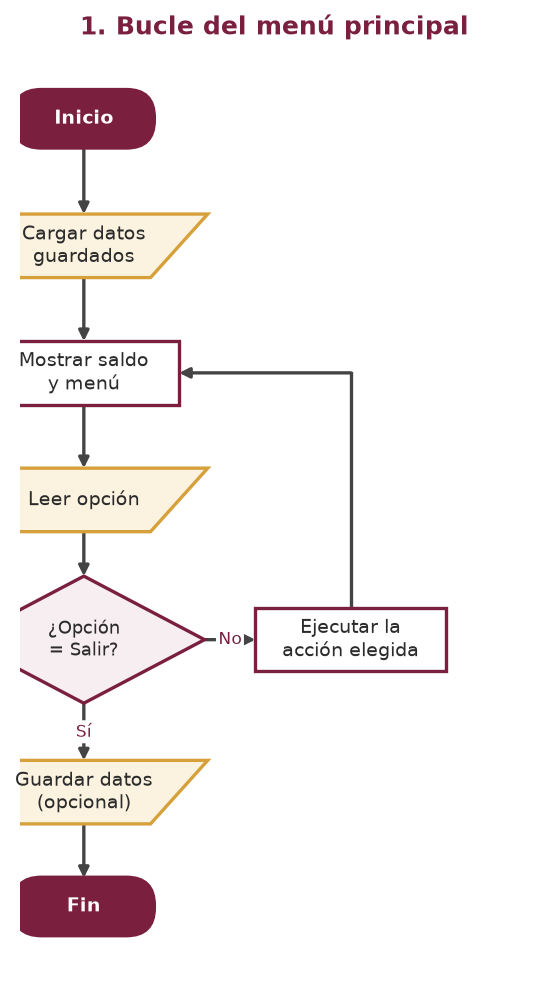
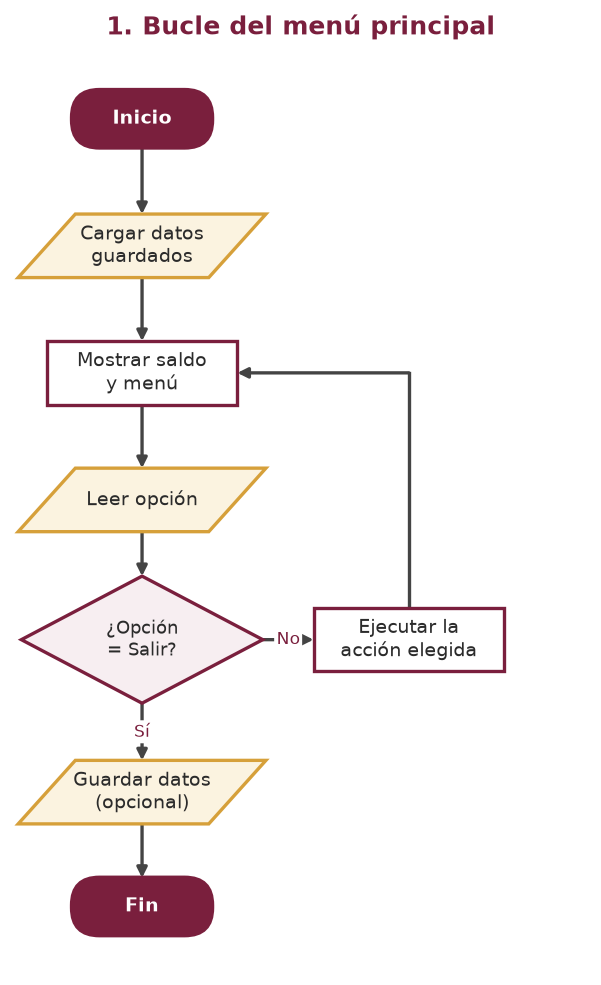
Corrige diagramas: las figuras ya no se recortan a la izquierda (clip_on=False y márgenes)

diff --git a/diagramas/generar_diagramas.py b/diagramas/generar_diagramas.py
@@ -28,13 +28,14 @@ TW, TH = 2.2, 0.9      # terminal (inicio/fin)
 
 
 def _texto(ax, x, y, t, color=TEXTO, size=9, bold=False):
+    # clip_on=False: el texto nunca se recorta aunque quede cerca del borde del eje.
     ax.text(x, y, t, ha="center", va="center", fontsize=size, color=color,
-            weight="bold" if bold else "normal", zorder=5, wrap=True)
+            weight="bold" if bold else "normal", zorder=5, wrap=True, clip_on=False)
 
 
 def proceso(ax, x, y, t, fill="white", fg=TEXTO, w=PW, h=PH):
     ax.add_patch(Rectangle((x - w / 2, y - h / 2), w, h, facecolor=fill,
-                           edgecolor=GRANATE, linewidth=1.6, zorder=3))
+                           edgecolor=GRANATE, linewidth=1.6, zorder=3, clip_on=False))
     _texto(ax, x, y, t, color=fg)
     return {"x": x, "y": y, "w": w, "h": h, "kind": "rect"}
 
@@ -44,7 +45,7 @@ def entrada_salida(ax, x, y, t, w=PW, h=PH):
     pts = [(x - w / 2 + s, y + h / 2), (x + w / 2 + s, y + h / 2),
            (x + w / 2 - s, y - h / 2), (x - w / 2 - s, y - h / 2)]
     ax.add_patch(Polygon(pts, closed=True, facecolor=ORO_CLARO,
-                         edgecolor=DORADO, linewidth=1.6, zorder=3))
+                         edgecolor=DORADO, linewidth=1.6, zorder=3, clip_on=False))
     _texto(ax, x, y, t)
     return {"x": x, "y": y, "w": w, "h": h, "kind": "io"}
 
@@ -52,7 +53,7 @@ def entrada_salida(ax, x, y, t, w=PW, h=PH):
 def decision(ax, x, y, t, hw=DHW, hh=DHH):
     pts = [(x, y + hh), (x + hw, y), (x, y - hh), (x - hw, y)]
     ax.add_patch(Polygon(pts, closed=True, facecolor=ROSA,
-                         edgecolor=GRANATE, linewidth=1.6, zorder=3))
+                         edgecolor=GRANATE, linewidth=1.6, zorder=3, clip_on=False))
     _texto(ax, x, y, t, size=8.5)
     return {"x": x, "y": y, "w": hw * 2, "h": hh * 2, "kind": "diamond"}
 
@@ -60,7 +61,8 @@ def decision(ax, x, y, t, hw=DHW, hh=DHH):
 def terminal(ax, x, y, t, w=TW, h=TH):
     ax.add_patch(FancyBboxPatch((x - w / 2, y - h / 2), w, h,
                                 boxstyle="round,pad=0.02,rounding_size=0.45",
-                                facecolor=GRANATE, edgecolor=GRANATE, zorder=3))
+                                facecolor=GRANATE, edgecolor=GRANATE, zorder=3,
+                                clip_on=False))
     _texto(ax, x, y, t, color="white", bold=True)
     return {"x": x, "y": y, "w": w, "h": h, "kind": "term"}
 
@@ -79,32 +81,34 @@ def flecha(ax, p1, p2, label=None, lpos=0.5, ldx=0.0, ldy=0.0):
     """Flecha recta de p1 a p2, con etiqueta opcional (Sí/No)."""
     ax.annotate("", xy=p2, xytext=p1,
                 arrowprops=dict(arrowstyle="-|>", color="#444", lw=1.6,
-                                shrinkA=0, shrinkB=0), zorder=2)
+                                shrinkA=0, shrinkB=0), zorder=2, annotation_clip=False)
     if label:
         lx = p1[0] + (p2[0] - p1[0]) * lpos + ldx
         ly = p1[1] + (p2[1] - p1[1]) * lpos + ldy
         ax.text(lx, ly, label, fontsize=8, color=GRANATE, ha="center", va="center",
-                bbox=dict(boxstyle="round,pad=0.15", fc="white", ec="none"), zorder=4)
+                bbox=dict(boxstyle="round,pad=0.15", fc="white", ec="none"),
+                zorder=4, clip_on=False)
 
 
 def ruta(ax, pts, label=None, lidx=0):
     """Polilínea (codos) por varios puntos; flecha solo en el último tramo."""
     for i in range(len(pts) - 2):
         ax.plot([pts[i][0], pts[i + 1][0]], [pts[i][1], pts[i + 1][1]],
-                color="#444", lw=1.6, zorder=2)
+                color="#444", lw=1.6, zorder=2, clip_on=False)
     ax.annotate("", xy=pts[-1], xytext=pts[-2],
                 arrowprops=dict(arrowstyle="-|>", color="#444", lw=1.6,
-                                shrinkA=0, shrinkB=0), zorder=2)
+                                shrinkA=0, shrinkB=0), zorder=2, annotation_clip=False)
     if label:
         p1, p2 = pts[lidx], pts[lidx + 1]
         ax.text((p1[0] + p2[0]) / 2, (p1[1] + p2[1]) / 2 + 0.25, label, fontsize=8,
                 color=GRANATE, ha="center", va="center",
-                bbox=dict(boxstyle="round,pad=0.15", fc="white", ec="none"), zorder=4)
+                bbox=dict(boxstyle="round,pad=0.15", fc="white", ec="none"),
+                zorder=4, clip_on=False)
 
 
 def linea(ax, p1, p2):
     """Tramo sin flecha (para unir a un bus de salida)."""
-    ax.plot([p1[0], p2[0]], [p1[1], p2[1]], color="#444", lw=1.6, zorder=2)
+    ax.plot([p1[0], p2[0]], [p1[1], p2[1]], color="#444", lw=1.6, zorder=2, clip_on=False)
 
 
 def lienzo(xlim, ylim, titulo):
@@ -127,7 +131,7 @@ def guardar(fig, nombre):
 
 # ============================================================ Diagrama 1
 def d1_menu():
-    fig, ax = lienzo((-1, 7), (-1.4, 13), "1. Bucle del menú principal")
+    fig, ax = lienzo((-2, 7), (-1.4, 13), "1. Bucle del menú principal")
     A = terminal(ax, 0, 12, "Inicio")
     B = entrada_salida(ax, 0, 10, "Cargar datos\nguardados")
     C = proceso(ax, 0, 8, "Mostrar saldo\ny menú")
@@ -150,7 +154,7 @@ def d1_menu():
 
 # ============================================================ Diagrama 2
 def d2_registrar():
-    fig, ax = lienzo((-5, 4), (-4.0, 13), "2. Registrar ingreso o gasto")
+    fig, ax = lienzo((-5.8, 4), (-4.0, 13), "2. Registrar ingreso o gasto")
     A = terminal(ax, 0, 12, "Inicio")
     B = entrada_salida(ax, 0, 10, "Pedir monto")
     C = decision(ax, 0, 7.7, "¿Monto válido?\n(número y > 0)")
@@ -202,7 +206,7 @@ def d3_resumen():
 
 # ============================================================ Diagrama 4
 def d4_alertas():
-    fig, ax = lienzo((-1, 9), (0, 13), "4. Semáforo de alertas (if / elif / else)")
+    fig, ax = lienzo((-2.5, 9), (-0.3, 13), "4. Semáforo de alertas (if / elif / else)")
     A = terminal(ax, 0, 12, "Inicio")
     B = proceso(ax, 0, 10, "Calcular %\n= gastado / límite")
     C = decision(ax, 0, 8, "¿% ≥ 100%?")